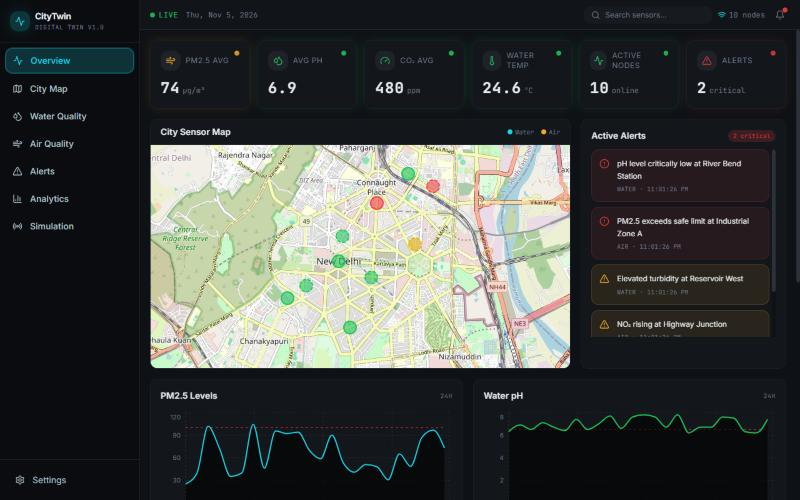
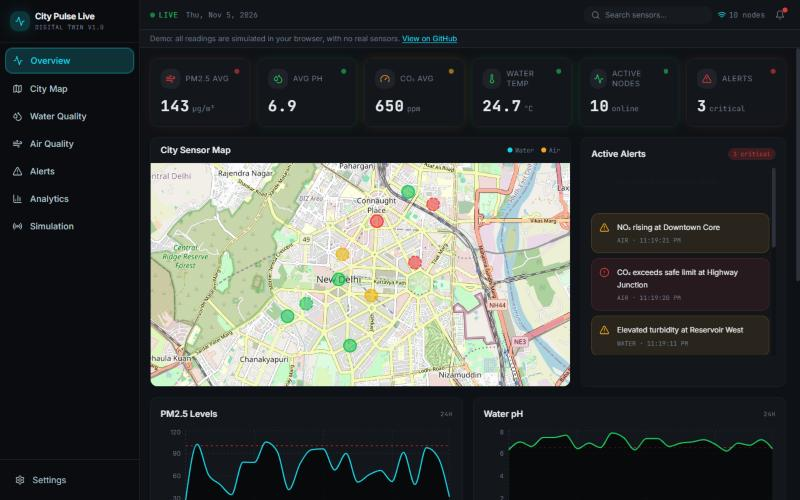
Use the City Pulse Live name and document the demo
Replace the City Project and CityTwin names, add demo instructions and a new
screenshot to the README, and correct its claim that alerts respond to
simulations, which only happens in demo mode.

diff --git a/index.html b/index.html
@@ -3,16 +3,16 @@
   <head>
     <meta charset="UTF-8" />
     <meta name="viewport" content="width=device-width, initial-scale=1.0" />
-    <title>City Project</title>
-    <meta name="description" content="City Project - City Pulse Live" />
-    <meta name="author" content="City Project" />
+    <title>City Pulse Live</title>
+    <meta name="description" content="A live digital twin dashboard for city water and air quality, with disaster simulations you can run." />
+    <meta name="author" content="AlivelliAshwanth" />
 
-    <meta property="og:title" content="City Project" />
-    <meta property="og:description" content="City Project - City Pulse Live" />
+    <meta property="og:title" content="City Pulse Live" />
+    <meta property="og:description" content="A live digital twin dashboard for city water and air quality, with disaster simulations you can run." />
     <meta property="og:type" content="website" />
 
     <meta name="twitter:card" content="summary" />
-    <meta name="twitter:title" content="City Project" />
+    <meta name="twitter:title" content="City Pulse Live" />
   </head>
 
   <body>

diff --git a/src/components/dashboard/DashboardSidebar.tsx b/src/components/dashboard/DashboardSidebar.tsx
@@ -25,7 +25,7 @@ export default function DashboardSidebar({ activeTab, onTabChange }: SidebarProp
             <Activity className="w-4 h-4 text-primary" />
           </div>
           <div className="hidden lg:block">
-            <h1 className="text-sm font-bold text-foreground tracking-tight">CityTwin</h1>
+            <h1 className="text-sm font-bold text-foreground tracking-tight">City Pulse Live</h1>
             <p className="text-[10px] text-muted-foreground font-mono uppercase tracking-wider">Digital Twin v1.0</p>
           </div>
         </div>

diff --git a/README.md b/README.md
@@ -2,11 +2,11 @@
 
 **A live "digital twin" dashboard for city water and air quality, with disaster simulations you can run and watch unfold.**
 
-![City Pulse Live dashboard showing a sensor map, alerts and PM2.5 and pH charts](docs/images/dashboard.jpg)
+![City Pulse Live during a pollution simulation, with affected sensors changing color on the map and new alerts in the feed](docs/images/dashboard.jpg)
 
 <!-- TODO before publishing: add the live demo link here once one is deployed. -->
 
-City Pulse Live shows 10 sample sensors on a map of New Delhi and updates their readings every 3 seconds over WebSocket. Trigger a pollution spike, flood or chemical spill, and watch the readings and alerts respond.
+City Pulse Live shows 10 sample sensors on a map of New Delhi and updates their readings every 3 seconds. Trigger a pollution spike, flood or chemical spill, and watch the readings and map respond.
 
 > **Note:** readings are simulated by default, so no hardware is needed to try it. The backend also has HTTP and MQTT ingestion paths for connecting real sensors. See [IoT integration](docs/IOT_INTEGRATION.md).
 
@@ -20,7 +20,20 @@ City Pulse Live shows 10 sample sensors on a map of New Delhi and updates their 
 - **Disaster simulation:** pollution spike, flood or water contamination at 1x to 10x speed
 - **REST API:** sensors, alerts, analytics and simulation control
 
-## Quick start
+## Try the demo locally
+
+The demo runs entirely in your browser, with no backend. Scenarios spread to nearby sensors and raise new alerts as conditions get worse.
+
+```bash
+git clone https://github.com/AlivelliAshwanth/smart_city_pulse.git
+cd smart_city_pulse
+npm install
+npm run dev:demo
+```
+
+Open <http://localhost:8080>. To host it as a static site, run `npm run build:demo` and publish the `dist` folder. On Vercel, importing the repo is enough, because `vercel.json` already sets the build.
+
+## Quick start (full app)
 
 You need Node.js 18 or newer and two terminals.
 
@@ -101,6 +114,7 @@ The backend has `/api/ml/*` endpoints for anomaly detection and forecasting. The
 - [ ] Show anomaly detection in the dashboard
 - [ ] Hosted live demo
 - [ ] Fix the remaining TypeScript errors in the backend
+- [ ] Raise new alerts from the backend during simulations, as the demo does
 
 ## License
 
